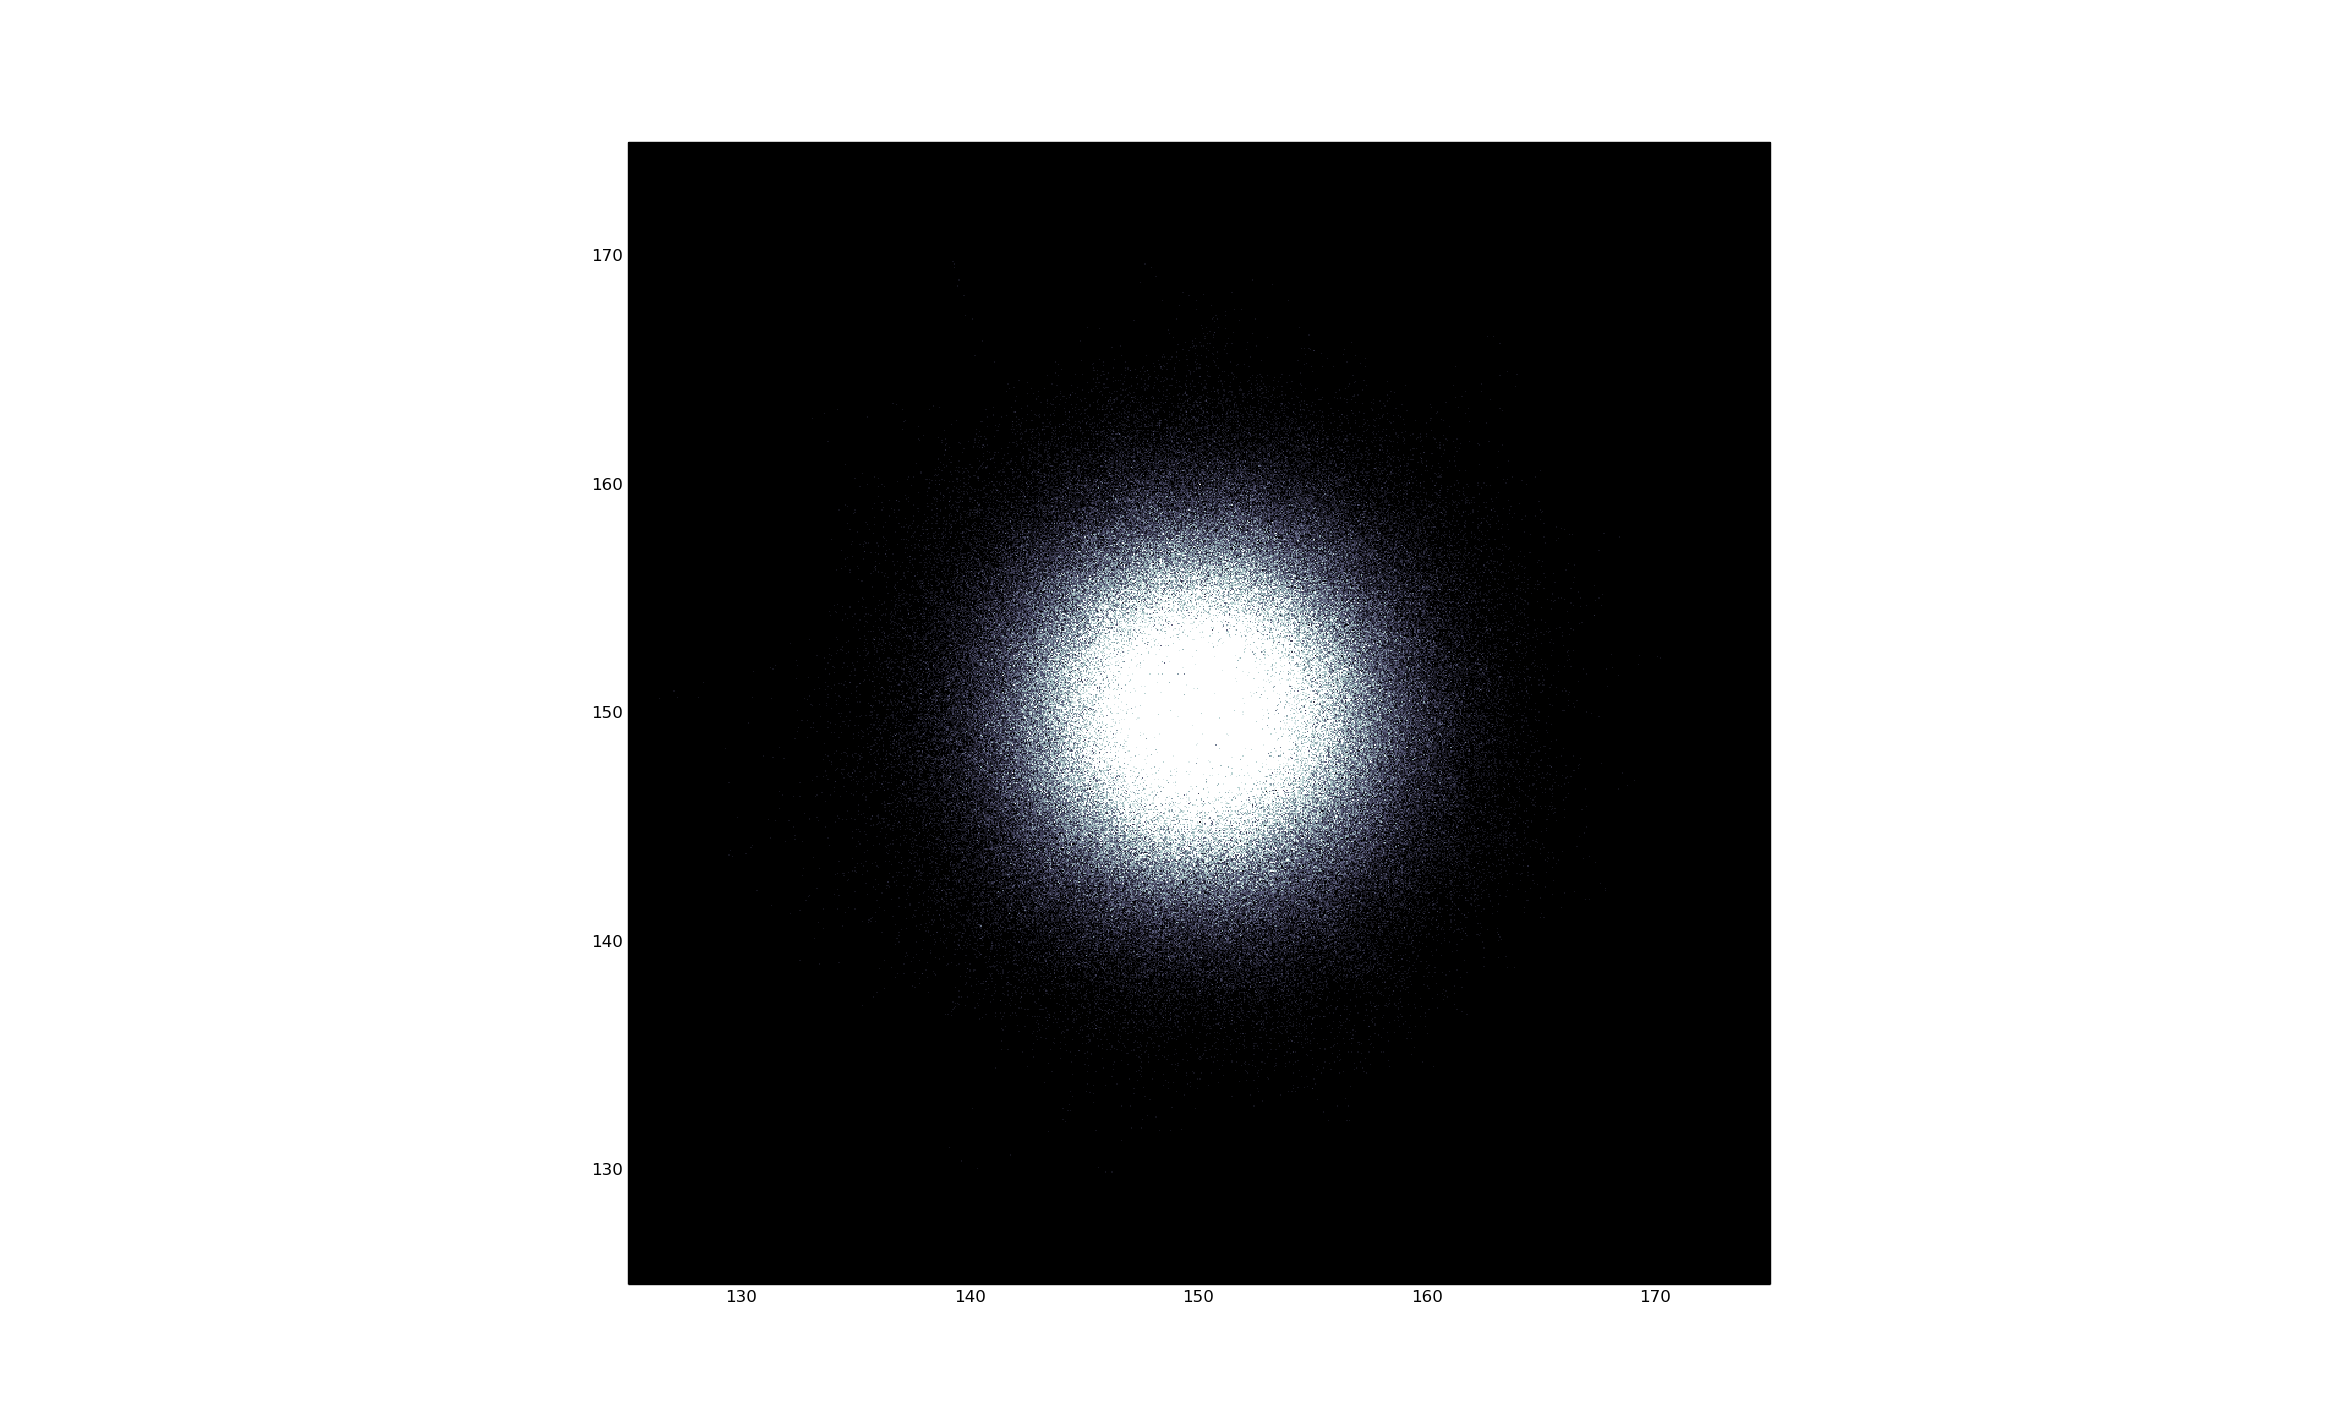
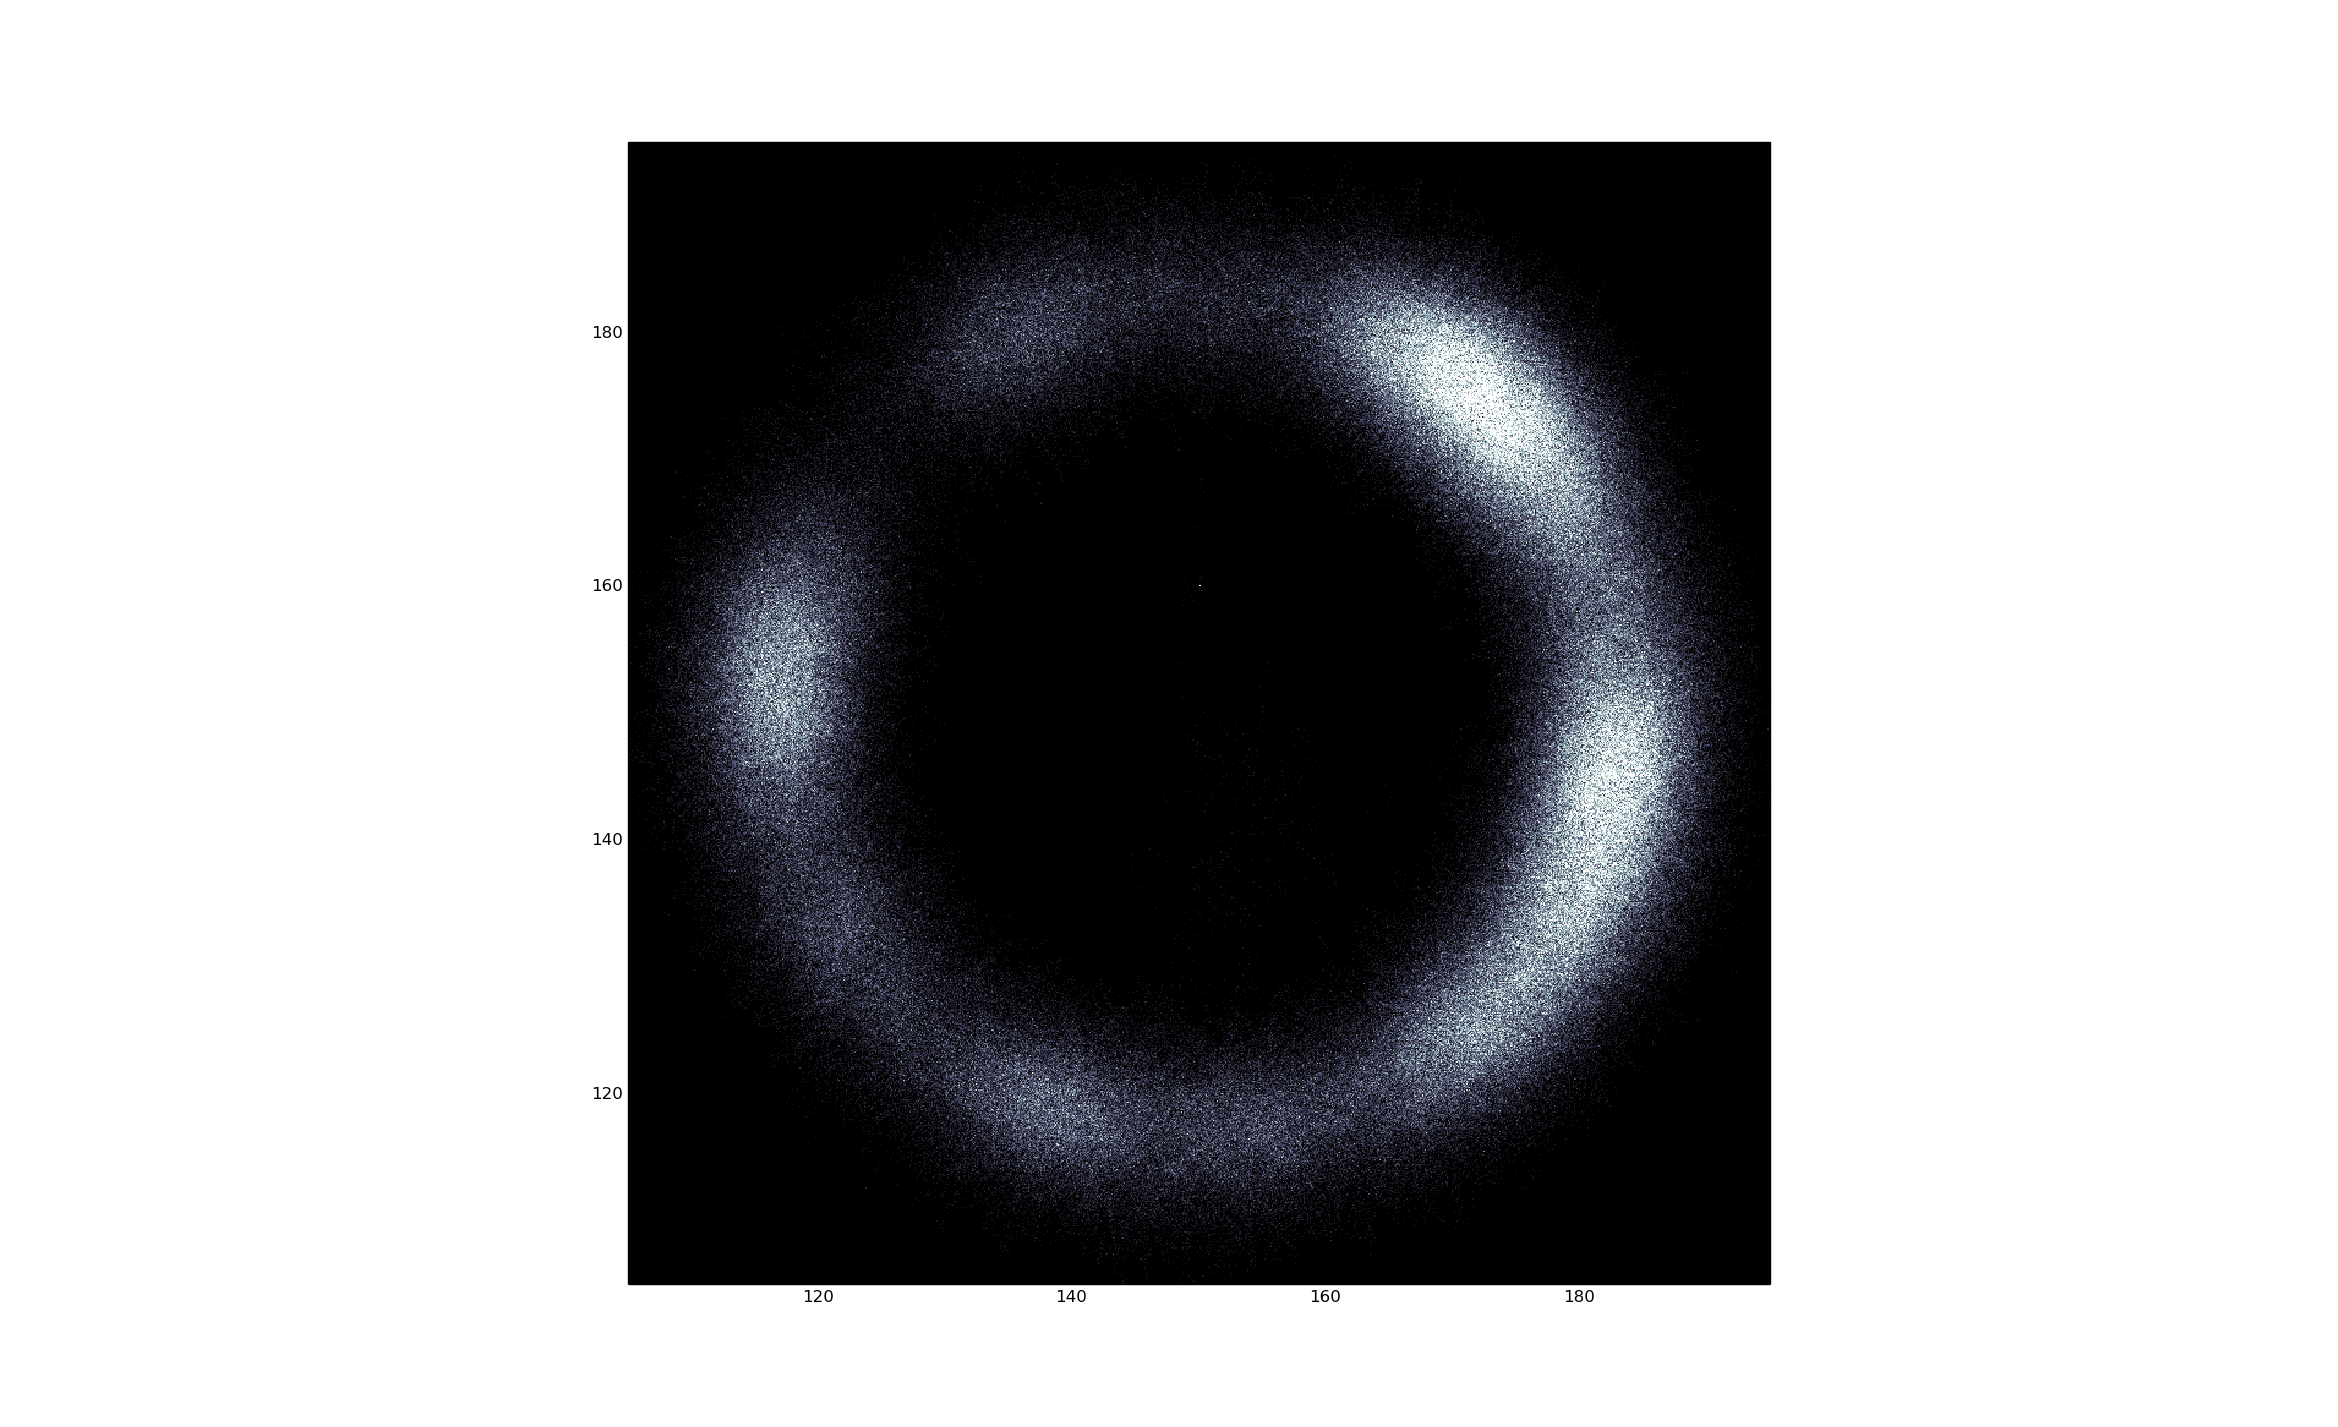
Membrane radius: 88

Changed region(s): [[0.281, 0.1233, 0.7494, 0.8942]]

diff --git a/main.py b/main.py
@@ -160,7 +160,7 @@ if __name__ == '__main__':
     runner.set_a_ball_mass(a_ball_mass)
 
     # Membrane size
-    sheet_radius    = 58
+    sheet_radius    = 88
     runner.set_sheet_radius(sheet_radius)
 
     # Ball starting postion
@@ -194,8 +194,8 @@ if __name__ == '__main__':
         membranes_z.append(mz)
 
         # Save histogram after each run
-        savepath = 'plots/start_position/x_pos{}.png'.format(val)
-        an.make_position_histogram(ball_file, limits=[130, 170], savepath=savepath)
+        # savepath = 'plots/start_position/x_pos{}.png'.format(val)
+        # an.make_position_histogram(ball_file, limits=[130, 170], savepath=savepath)
 
         # Resave every iteration (you can see those live with ipython)
         with open('data/ball.pickle', 'wb') as fout:
